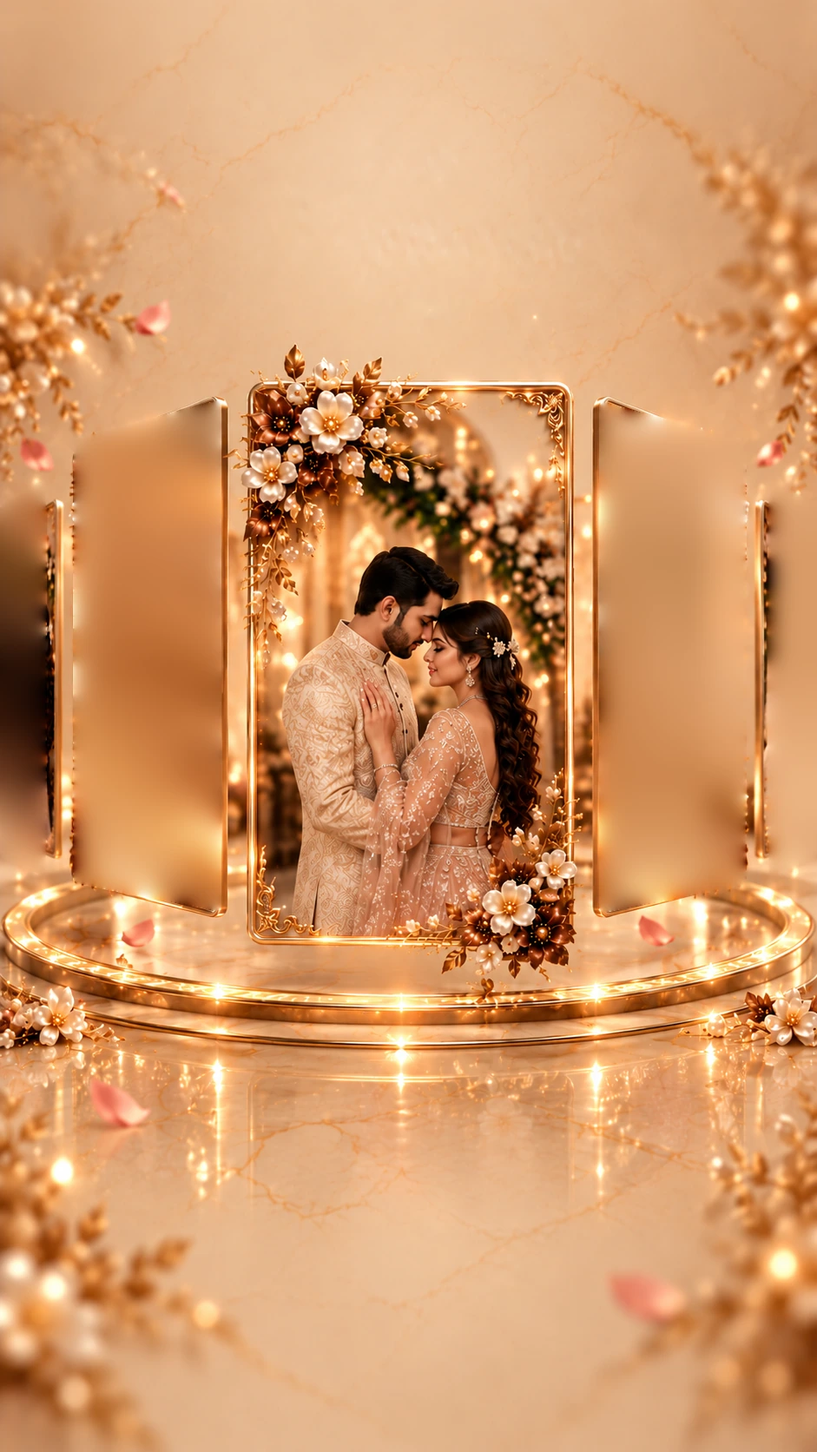
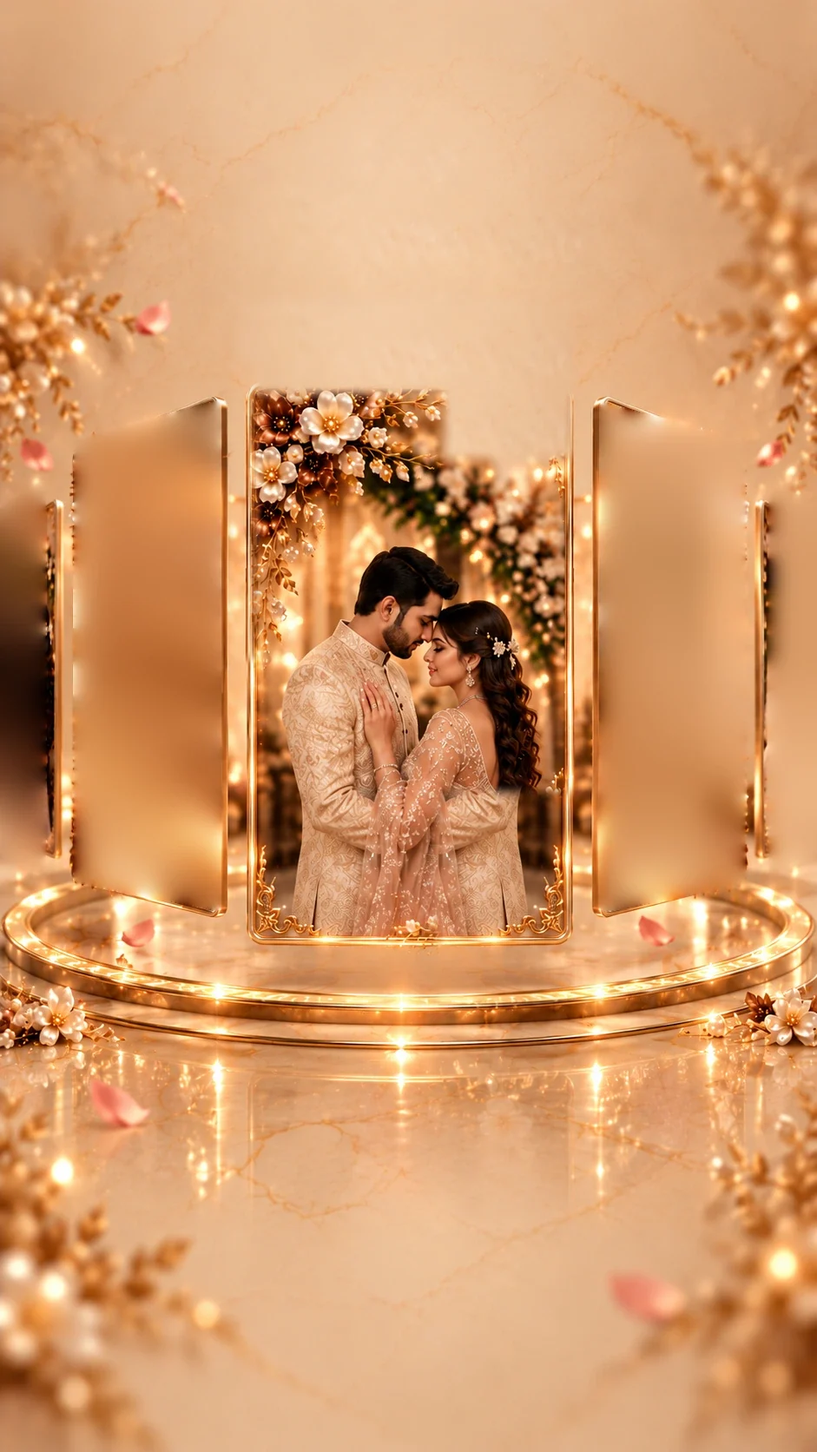
vaishali-arpan-wedding: design refinement round — programme cards, Save the Date on its own plate, clean memories frame, hero rhythm, shorter day pages
- Functions page: the pathway plate becomes a bokeh backdrop; three programme cards (day medallion, title, first hour, venue, "Tap to view" pill) open the day pages
- Save the Date moves to plate 5 (title, names, venue, date beside the card's calendar, time beside its clock, the plate's own buttons); the countdown takes plate 4, cropped above its painted buttons
- Memories: frame rebuilt from its clean quarter (no flowers), plate patched beside the window; plates 4/5 ghost lettering smoothed
- Hero on one vertical rhythm; day pages end with their card and centre in the viewport
- Built by the tool's new `art` mode

Changed region(s): [[0.5239, 0.5287, 0.7396, 0.7153], [0.2774, 0.2177, 0.7088, 0.4665]]

diff --git a/public/vaishali-arpan-wedding/css/client.css b/public/vaishali-arpan-wedding/css/client.css
@@ -1,11 +1,12 @@
 /* Vaishali & Arpan: additions to the demo's stylesheet (css/invite.css, unchanged). Live words in measured
-   boxes (no reference lettering for these lines), the three plaques, the day pages that flow below their
+   boxes (no reference lettering for these lines), the programme cards, the day pages that flow below their
    plate, the countdown tray, the Save the Date page, the Add to Calendar sheet, and the film's seal patch.
    Every word is set in dark browns (the demo's light gold reads poorly on the cream plates). */
 :root {
   --ink: #4a291b;        /* body words: deep chocolate */
   --ink-soft: #593522;   /* small capitals and labels: walnut */
   --ink-deep: #3b2214;   /* names, headings in capitals */
+  --card: #fbf0dc;       /* the solid cream of every card */
   --deva: 'Noto Serif Devanagari', 'Kohinoor Devanagari', 'Mangal', serif;
 }
 body { font-variant-numeric: lining-nums; }
@@ -19,30 +20,46 @@ body { font-variant-numeric: lining-nums; }
 .s.live.bold { font-weight: 700; }
 .s.live.semibold { font-weight: 600; }
 .s.live.italic { font-style: italic; }
-.s.live.deva { font-family: var(--deva); font-weight: 500; line-height: 1.5; }
+.s.live.deva { font-family: var(--deva); font-weight: 500; line-height: 1.45; }
 .s.live.script { line-height: 1.05; }
+.s.live.serif.wrap { line-height: 1.25; }
+.s.live.italic.wrap { line-height: 1.3; }
 .s.live.date3 { color: var(--burgundy); line-height: 1.12; }
 .s.live.date3 b { font-weight: 600; font-size: 1.7em; line-height: 1; }
 .s.live.date3 sup { font-size: .42em; vertical-align: .9em; margin-left: .05em; }
 .hint, .tap-hint { color: var(--ink); font-weight: 600; }
 .tap-hint { opacity: .85; }
 
-/* ── page 3: the plaques carry live words over the pack's plaque ── */
-.plaque { position: relative; }
-.plaque .plaque-art { position: absolute; inset: 0; width: 100%; height: 100%; filter: drop-shadow(0 .7cqw 1.3cqw rgba(84, 44, 16, .48)) saturate(1.12) brightness(.97); }
-.page-3-hint { top: 95.4%; }
-.plaque-label { position: absolute; left: 14%; right: 14%; top: 0; bottom: 0; display: flex; flex-direction: column; align-items: center; justify-content: center; text-align: center; color: var(--ink-deep); line-height: 1.15; }
-.plaque-label small { font-size: 2cqw; letter-spacing: .14em; padding-left: .14em; text-transform: uppercase; font-weight: 700; color: var(--ink-soft); margin-bottom: .4cqw; }
-.plaque-label b { font-size: 3.2cqw; font-weight: 700; letter-spacing: .02em; }
+/* ── page 3: the programme cards, each a button that opens its day ── */
+.fn-wrap { filter: drop-shadow(0 1.6cqw 3.2cqw rgba(84, 44, 16, .26)); }
+.fn { position: relative; display: flex; align-items: center; gap: 3.4cqw; width: 100%; height: 100%; padding: 2.4cqw 3cqw 2.4cqw 2.8cqw; border: 0; border-radius: 3.4cqw; text-align: left; color: var(--ink);
+  background: var(--card) linear-gradient(160deg, #fdf6e8, #f6e5c8); box-shadow: 0 0 0 .45cqw rgba(252, 243, 228, .9), 0 0 0 .7cqw rgba(201, 162, 79, .95); transition: transform .25s ease, filter .25s ease; }
+.fn::before { content: ""; position: absolute; inset: 1.1cqw; border-radius: 2.4cqw; border: 1px solid rgba(201, 162, 79, .55); pointer-events: none; }
+.fn:active { transform: scale(.985); filter: brightness(1.04); }
+.fn:focus-visible { outline: 2px solid var(--gold); outline-offset: 3px; }
+@media (hover: hover) { .fn:hover { transform: translateY(-.4cqw); filter: brightness(1.03); } }
+.fn-day { flex: 0 0 auto; display: flex; flex-direction: column; align-items: center; justify-content: center; width: 15.2cqw; height: 15.2cqw; border-radius: 50%; color: var(--cream);
+  background: radial-gradient(circle at 35% 30%, #8a2634, #5a1420 70%, #4a0f1a); box-shadow: 0 0 0 .5cqw #f3e2c4, 0 0 0 .75cqw var(--gold), 0 1cqw 2.2cqw rgba(84, 44, 16, .3); }
+.fn-day b { font-weight: 600; font-size: 6.2cqw; line-height: 1; font-variant-numeric: lining-nums; }
+.fn-day small { margin-top: .5cqw; font-weight: 700; font-size: 1.9cqw; letter-spacing: .22em; padding-left: .22em; text-transform: uppercase; color: #f0d08a; }
+.fn-body { display: flex; flex-direction: column; align-items: flex-start; min-width: 0; flex: 1 1 auto; }
+.fn-when { font-weight: 700; font-size: 2cqw; letter-spacing: .18em; text-transform: uppercase; color: var(--ink-soft); }
+.fn-title { display: block; margin: .9cqw 0 .8cqw; font-weight: 700; font-size: 3.45cqw; line-height: 1.15; color: var(--ink-deep); }
+.fn-meta { font-weight: 500; font-size: 2.35cqw; line-height: 1.25; color: var(--ink); }
+.fn-tap { display: inline-flex; align-items: center; gap: 1.2cqw; margin-top: 2cqw; padding: 1.25cqw 2.6cqw 1.25cqw 3cqw; border-radius: 99px; background: linear-gradient(180deg, #8a2430, #5e1420); color: var(--cream); font-weight: 700; font-size: 2.05cqw; letter-spacing: .2em; text-transform: uppercase; box-shadow: 0 .8cqw 1.8cqw rgba(90, 20, 30, .3); }
+.fn-tap i { width: 1.5cqw; height: 1.5cqw; border-right: 1.5px solid currentColor; border-top: 1.5px solid currentColor; transform: rotate(45deg); animation: nudge 1.6s ease-in-out infinite; }
+@keyframes nudge { 0%, 100% { transform: translateX(0) rotate(45deg); } 50% { transform: translateX(.6cqw) rotate(45deg); } }
+.fn-n { position: absolute; top: 1.9cqw; right: 2.6cqw; font-family: var(--serif); font-weight: 600; font-size: 2.3cqw; letter-spacing: .16em; color: var(--gold); }
 
-/* ── a day's detail page: plate at the top, words in flow below its arch ── */
-.page.tall { min-height: calc(var(--col) * 1672 / 941); overflow: visible; background: none; }
-/* the plate fades out above its own painted buttons (78 % down), which the card would otherwise half-cover */
-.page.tall > img.plate { height: auto; bottom: auto; -webkit-mask-image: linear-gradient(to bottom, #000 70%, transparent 77%); mask-image: linear-gradient(to bottom, #000 70%, transparent 77%); }
+/* ── a day's detail page: plate at the top, words in flow below its arch; the page ends with its card ── */
+.page.tall { overflow: hidden; background: none; }
+/* the plate fades in from the blurred backdrop at its top edge, and out above its own painted buttons (78 % down),
+   which the card would otherwise half-cover */
+.page.tall > img.plate { height: auto; bottom: auto; -webkit-mask-image: linear-gradient(to bottom, transparent, #000 6%, #000 70%, transparent 77%); mask-image: linear-gradient(to bottom, transparent, #000 6%, #000 70%, transparent 77%); }
 .detail { overflow-x: hidden; }
-.detail .column { justify-content: flex-start; }
-.flow { position: relative; z-index: 5; margin-top: var(--top); padding: 0 8cqw 9cqw; }
-.flow .panel, .dress { padding: 3.2cqw 4cqw 4cqw; border-radius: 3cqw; background: #fbf0dc linear-gradient(180deg, #fdf5e6, #f7e8cc); border: 1px solid rgba(201, 162, 79, .8); box-shadow: 0 0 0 .8cqw rgba(252, 242, 226, .55), 0 1.4cqw 3.6cqw rgba(84, 44, 16, .24); }
+.detail .column { justify-content: center; }
+.flow { position: relative; z-index: 5; margin-top: var(--top); padding: 0 8cqw 5cqw; }
+.flow .panel, .dress { padding: 3.2cqw 4cqw 4cqw; border-radius: 3cqw; background: var(--card) linear-gradient(180deg, #fdf5e6, #f7e8cc); border: 1px solid rgba(201, 162, 79, .8); box-shadow: 0 0 0 .8cqw rgba(252, 242, 226, .55), 0 1.4cqw 3.6cqw rgba(84, 44, 16, .24); }
 .dress { margin: 0 0 3.2cqw; padding: 2.6cqw 3cqw 3cqw; text-align: center; }
 .dress-title { margin: 0; font-weight: 700; font-size: 3.6cqw; color: var(--ink-deep); }
 .swatches { list-style: none; display: flex; justify-content: center; gap: 2.6cqw; margin: 2.4cqw 0 0; padding: 0; }
@@ -51,7 +68,7 @@ body { font-variant-numeric: lining-nums; }
 .timeline { list-style: none; margin: 0; padding: 0; position: relative; }
 .timeline::before { content: ""; position: absolute; left: 1.6cqw; top: 1.6cqw; bottom: 1.6cqw; width: 1px; background: linear-gradient(var(--gold), rgba(201, 162, 79, .25)); }
 .timeline li { position: relative; padding: 1.3cqw 0 1.3cqw 6cqw; }
-.timeline li::before { content: ""; position: absolute; left: 1.6cqw; top: 2.6cqw; width: 2cqw; height: 2cqw; border-radius: 50%; transform: translateX(-50%); background: var(--gold); box-shadow: 0 0 0 2px #fbf0dc; }
+.timeline li::before { content: ""; position: absolute; left: 1.6cqw; top: 2.6cqw; width: 2cqw; height: 2cqw; border-radius: 50%; transform: translateX(-50%); background: var(--gold); box-shadow: 0 0 0 2px var(--card); }
 .timeline time { display: block; font-weight: 700; font-size: 2.5cqw; letter-spacing: .14em; text-transform: uppercase; color: var(--ink-soft); }
 .timeline span { display: block; font-weight: 600; font-size: 3.5cqw; line-height: 1.25; color: var(--ink-deep); }
 .timeline .no-time span { font-style: italic; color: var(--burgundy); }
@@ -60,18 +77,18 @@ body { font-variant-numeric: lining-nums; }
 .venue-name { margin: 0; font-weight: 700; font-size: 3.6cqw; letter-spacing: .08em; text-transform: uppercase; line-height: 1.25; color: var(--ink-deep); }
 .venue-addr { margin: 1cqw 0 0; font-size: 3.1cqw; line-height: 1.4; color: var(--ink); }
 .actions { display: flex; justify-content: center; gap: 1.5cqw; margin-top: 4cqw; }
-.actions .img-wrap { width: 34cqw; height: 10.4cqw; }
+.actions .img-wrap { width: 34cqw; height: 10.4cqw; filter: drop-shadow(0 .8cqw 1.8cqw rgba(84, 44, 16, .25)); }
 .page.tall .reveal.flow { transform: translateY(1.4cqw); }
 .page.tall.ready .reveal.flow.in { transform: none; }
 
-/* ── the countdown: four tiles in a cream tray under the plate's card ── */
-.cd-tray { display: flex; flex-direction: column; justify-content: center; padding: 1.6cqw; border-radius: 3cqw; background: #fbf0dc linear-gradient(180deg, #fdf5e6, #f5e4c4); border: 1px solid rgba(201, 162, 79, .85); box-shadow: 0 0 0 .6cqw rgba(252, 242, 226, .5), 0 1.4cqw 3cqw rgba(84, 44, 16, .22); }
+/* ── the countdown: four tiles in a cream tray over the daybed ── */
+.cd-tray { display: flex; flex-direction: column; justify-content: center; padding: 1.6cqw; border-radius: 3cqw; background: var(--card) linear-gradient(180deg, #fdf5e6, #f5e4c4); border: 1px solid rgba(201, 162, 79, .85); box-shadow: 0 0 0 .6cqw rgba(252, 242, 226, .5), 0 1.4cqw 3cqw rgba(84, 44, 16, .22); }
 .cd { display: grid; grid-template-columns: repeat(4, 1fr); gap: 1.6cqw; height: 100%; }
 .cd div { display: flex; flex-direction: column; align-items: center; justify-content: center; border-radius: 2.2cqw; background: linear-gradient(180deg, #4a2a17, #2f1b0f); border: 1px solid rgba(201, 162, 79, .75); box-shadow: 0 1cqw 2.4cqw rgba(59, 34, 20, .28), inset 0 0 0 2px rgba(201, 162, 79, .14); }
-.cd b { font-weight: 600; font-size: 6.2cqw; line-height: 1; color: #f0d08a; font-variant-numeric: tabular-nums lining-nums; }
-.cd span { margin-top: 1cqw; font-weight: 600; font-size: 1.9cqw; letter-spacing: .2em; padding-left: .2em; text-transform: uppercase; color: var(--cream); }
+.cd b { font-weight: 600; font-size: 5.6cqw; line-height: 1; color: #f0d08a; font-variant-numeric: tabular-nums lining-nums; }
+.cd span { margin-top: 1cqw; font-weight: 600; font-size: 1.8cqw; letter-spacing: .2em; padding-left: .2em; text-transform: uppercase; color: var(--cream); }
 .cd[hidden] { display: none; }
-.cd-done { margin: 0; text-align: center; font-family: var(--script); font-size: 5.6cqw; line-height: 1.1; color: var(--burgundy); }
+.cd-done { margin: 0; text-align: center; font-family: var(--script); font-size: 5.2cqw; line-height: 1.1; color: var(--burgundy); }
 .cd-done[hidden] { display: none; }
 
 /* ── Add to Calendar sheet ── */
@@ -94,3 +111,5 @@ body { font-variant-numeric: lining-nums; }
 .film .seal, .film .burst { position: absolute; pointer-events: none; will-change: opacity; }
 .film .seal { opacity: 0; }
 .film .burst { opacity: 0; border-radius: 50%; background: radial-gradient(circle closest-side, #fff8e6 0%, #ffecc4 34%, rgba(255, 232, 190, .98) 56%, rgba(255, 220, 160, .6) 76%, rgba(255, 210, 140, 0) 100%); }
+
+@media (prefers-reduced-motion: reduce) { .fn-tap i { animation: none; } }

diff --git a/public/vaishali-arpan-wedding/js/app.js b/public/vaishali-arpan-wedding/js/app.js
@@ -1,5 +1,5 @@
 /* Vaishali & Arpan: the invitation assembled from the demo's components.
-   Scroll order: 1 the invitation, 2 the date, 3 the three days, the countdown, Save the Date,
+   Scroll order: 1 the invitation, 2 the date, 3 the programme (three days), the countdown, Save the Date,
    our memories, the little stars' message, the closing. The three days open as detail views from page 3. */
 import { config as C } from '../config.js';
 import './layout.js';
@@ -25,17 +25,17 @@ const page1 = Page(1, [
   spr('p1-flowers-a', { still: true, motion: 'sway soft', origin: '0% 45%', z: 1 }),
   spr('p1-flowers-b', { still: true, motion: 'sway soft alt', origin: '0% 50%', z: 1 }),
   butterfly('p1-butterfly', { z: 2 }),
-  live('h-invocation', H.invocation, { size: 2.45, cls: 'serif caps tight soft', delay: 0.1, wrap: false }),
-  live('h-hindi', H.hindi, { size: 2.8, cls: 'deva burgundy', delay: 0.25, lang: 'hi' }),
+  live('h-invocation', H.invocation, { size: 2.3, cls: 'serif caps tight soft', delay: 0.1, wrap: false }),
+  live('h-hindi', H.hindi, { size: 2.65, cls: 'deva burgundy', delay: 0.25, lang: 'hi' }),
   sprAt('h-rule1', 'p1-rule1', { delay: 0.4 }),
-  live('h-blessings', H.blessings, { size: 2.6, cls: 'serif caps soft', delay: 0.5, wrap: false }),
-  live('h-parents', H.parents, { size: 3.3, cls: 'serif bold deep', delay: 0.6 }),
-  live('h-request', H.request, { size: 2.7, cls: 'serif italic', delay: 0.7 }),
-  live('h-bride', C.couple.bride, { size: 11.5, cls: 'script burgundy', delay: 0.6, slow: true, wrap: false }),
-  live('h-bride-of', H.brideOf, { size: 2.6, cls: 'serif semibold', delay: 0.9 }),
-  live('h-with', H.with, { size: 2.7, cls: 'serif caps soft', delay: 1, wrap: false }),
-  live('h-groom', C.couple.groom, { size: 11.5, cls: 'script burgundy', delay: 0.9, slow: true, wrap: false }),
-  live('h-groom-of', H.groomOf, { size: 2.6, cls: 'serif semibold', delay: 1.2 }),
+  live('h-blessings', H.blessings, { size: 2.3, cls: 'serif caps soft', delay: 0.5, wrap: false }),
+  live('h-parents', H.parents, { size: 3.15, cls: 'serif bold deep', delay: 0.6 }),
+  live('h-request', H.request, { size: 2.5, cls: 'serif italic', delay: 0.7 }),
+  live('h-bride', C.couple.bride, { size: 10.8, cls: 'script burgundy', delay: 0.6, slow: true, wrap: false }),
+  live('h-bride-of', H.brideOf, { size: 2.5, cls: 'serif semibold', delay: 0.9 }),
+  live('h-with', H.with, { size: 2.4, cls: 'serif caps soft', delay: 1, wrap: false }),
+  live('h-groom', C.couple.groom, { size: 10.8, cls: 'script burgundy', delay: 0.9, slow: true, wrap: false }),
+  live('h-groom-of', H.groomOf, { size: 2.5, cls: 'serif semibold', delay: 1.2 }),
   h('div', { class: 'hint', 'aria-hidden': 'true' }, h('span', {}, 'Scroll'), h('i')),
 ], { id: 'page-1' });
 
@@ -54,7 +54,7 @@ const page2 = Page(2, [
 ], { id: 'page-2' });
 
 /* ── the three days: detail views, all on plate 4 (title over the arch, the date in its gold frame, the
-      programme in one solid card below, the demo's two buttons under it) ── */
+      programme in one solid card below, the demo's two buttons under it; the page ends with its card) ── */
 const schedule = (day) => h('ol', { class: 'timeline' }, ...day.schedule.map(([t, what, note]) => h('li', { class: t ? '' : 'no-time' },
   t ? h('time', {}, t) : null, h('span', {}, what, note ? h('em', {}, note) : null))));
 const venue = (day) => h('div', { class: 'venue' }, h('p', { class: 'venue-name' }, day.venue), h('p', { class: 'venue-addr' }, ...day.address.flatMap((l, i) => (i ? [h('br'), l] : [l]))));
@@ -73,49 +73,48 @@ const dayPage = (day) => () => Page(4, [
 ], { id: `detail-${day.key}`, tall: true, flow: h('div', { class: 'flow reveal', style: { '--d': '0.6s', '--top': '91.8cqw' } },
   day.dressCode ? dressCode(day) : null, h('div', { class: 'panel' }, schedule(day), venue(day)), actions(day)) });
 
-/* ── 3 · our functions: a plaque per day, its pin on the plaque ── */
-const plaque = (id, day, delay) => control(id,
-  h('button', { class: 'plaque', type: 'button', 'aria-label': `${day.title}, ${day.weekday} ${day.date}: view details`, onclick: () => openDetail(day.title, 4, dayPage(day)) },
-    pic('p3-plaque', ''), h('span', { class: 'plaque-label' }, h('small', {}, `${day.weekday} · ${day.date.replace(' 2026', '')}`), h('b', {}, day.title))), { delay, cls: 'plaque-wrap' });
-
+/* ── 3 · our functions: the programme as three cards, each a button that opens its day. The day's number sits
+      in a burgundy medallion, the title and the first hour beside it, and a "Tap to view" pill says what a
+      tap does, so nobody wonders whether the cards are live. ── */
 const [day1, day2, day3] = C.days;
+const monthShort = (date) => date.split(' ')[1].slice(0, 3);
+const card = (id, day, n, delay) => control(id,
+  h('button', { class: 'fn', type: 'button', 'aria-label': `${day.title}, ${day.weekday} ${day.date}: view the programme`, onclick: () => openDetail(day.title, 4, dayPage(day)) },
+    h('span', { class: 'fn-day', 'aria-hidden': 'true' }, h('b', {}, day.date.split(' ')[0]), h('small', {}, monthShort(day.date))),
+    h('span', { class: 'fn-body' },
+      h('small', { class: 'fn-when' }, `${day.weekday} · ${day.date.replace(' 2026', '')}`),
+      h('b', { class: 'fn-title' }, day.title),
+      h('span', { class: 'fn-meta' }, `${day.schedule[0][0]} · ${day.venue}`),
+      h('span', { class: 'fn-tap' }, 'Tap to view', h('i', { 'aria-hidden': 'true' }))),
+    h('span', { class: 'fn-n', 'aria-hidden': 'true' }, n)),
+  { delay, cls: 'fn-wrap', z: 5 });
+
 const page3 = Page(3, [
   spr('p3-flowers-a', { motion: 'sway', origin: '0% 30%', delay: 0.1, z: 2 }),
   spr('p3-flowers-b', { motion: 'sway alt', origin: '0% 50%', delay: 0.2, z: 2 }),
   spr('p3-flowers-c', { motion: 'sway', origin: '0% 50%', delay: 0.3, z: 2 }),
   spr('p3-flowers-d', { motion: 'sway alt', origin: '100% 50%', delay: 0.2, z: 2 }),
   spr('p3-flowers-e', { motion: 'sway', origin: '100% 50%', delay: 0.3, z: 2 }),
-  plaque('p3-plaque-a', day1, 0.45),
-  sprAt('p3-pin-a', 'p3-pin1', { delay: 0.55, z: 4, cls: 'bob' }),
-  plaque('p3-plaque-b', day2, 0.7),
-  sprAt('p3-pin-b', 'p3-pin1', { delay: 0.8, z: 4, cls: 'bob' }),
-  plaque('p3-plaque-c', day3, 0.9),
-  sprAt('p3-pin-c', 'p3-pin1', { delay: 1, z: 4, cls: 'bob' }),
-  h('div', { class: 'tap-hint page-3-hint', 'aria-hidden': 'true' }, 'Tap to view'),
+  card('f-card-a', day1, 'I', 0.4),
+  card('f-card-b', day2, 'II', 0.6),
+  card('f-card-c', day3, 'III', 0.8),
 ], { id: 'page-3' });
-page3.querySelectorAll('.plaque-wrap .plaque img').forEach((i) => i.classList.add('plaque-art'));
 
-/* ── the countdown (plate 5: the plate's card carries the date and time, the tiles sit in a tray below) ── */
+/* ── the countdown (plate 4 down to its painted buttons: the day in the gold frame, the tiles in a tray over
+      the daybed) ── */
 const CD = C.countdown, W = C.wedding;
 const tiles = h('div', { class: 'cd', id: 'countdown', role: 'timer', 'aria-live': 'off' },
   ...CD.units.map((u) => h('div', {}, h('b', { 'data-u': u[0].toLowerCase() }, '--'), h('span', {}, u))));
 const done = h('p', { class: 'cd-done script', hidden: true }, CD.done);
 const tray = h('div', { class: 's cd-tray reveal', style: { ...box('c-tray'), zIndex: 5, '--d': '0.8s' } }, tiles, done);
-const pageCountdown = Page(5, [
-  spr('p5-lantern-a', { still: true, motion: 'sway hang', origin: '50% 0%', z: 2 }),
-  spr('p5-lantern-b', { still: true, motion: 'sway hang alt', origin: '50% 0%', z: 2 }),
-  spr('p5-lantern-c', { still: true, motion: 'sway hang', origin: '50% 0%', z: 2 }),
-  butterfly('p5-butterfly-a', { z: 3 }),
-  butterfly('p5-butterfly-b', { z: 3 }),
-  butterfly('p5-butterfly-c', { z: 3 }),
-  live('c-title', CD.title, { size: 7.6, cls: 'script burgundy', delay: 0.15 }),
-  spr('p5-heart', { delay: 0.35 }),
-  live('c-lines', CD.lines, { size: 3.2, cls: 'serif italic', delay: 0.45 }),
-  live('c-date', W.dateLine, { size: 2.35, cls: 'serif caps deep', delay: 0.65, wrap: false }),
-  live('c-weekday', W.weekday, { size: 2.2, cls: 'serif caps soft', delay: 0.7, wrap: false }),
-  live('c-time', W.time, { size: 3, cls: 'serif bold deep', delay: 0.75, wrap: false }),
+const pageCountdown = Page(4, [
+  live('c-title', CD.title, { size: 7, cls: 'script burgundy', delay: 0.15 }),
+  sprAt('c-rule', 'p4-rule', { delay: 0.3 }),
+  live('c-lines', CD.lines, { size: 2.7, cls: 'serif italic', delay: 0.45 }),
+  live('c-date', W.dateLine, { size: 2.4, cls: 'serif caps deep', delay: 0.6, wrap: false }),
+  live('c-weekday', `${W.weekday} · ${W.time}`, { size: 2.1, cls: 'serif caps tight soft', delay: 0.65, wrap: false }),
   tray,
-], { id: 'page-countdown' });
+], { id: 'page-countdown', crop: { bottom: 0.22 } });
 
 /* the countdown: worked out every second from the real moment, never below zero */
 (() => {
@@ -134,19 +133,26 @@ const pageCountdown = Page(5, [
   document.addEventListener('visibilitychange', () => { if (!document.hidden) tick(); });
 })();
 
-/* ── Save the Date (plate 4, the demo's own events composition: the day in the gold frame, the time, the
-      venue, and its two buttons: Add to Calendar and the wedding venue on Google Maps) ── */
+/* ── Save the Date (plate 5, the plate painted for it: the title in the arch, the names and the venue, the
+      day beside the card's calendar, the time beside its clock, and its two buttons: the calendar sheet and
+      the wedding venue on Google Maps) ── */
 const SD = C.saveTheDate;
-const pageSave = Page(4, [
+const pageSave = Page(5, [
+  spr('p5-lantern-a', { still: true, motion: 'sway hang', origin: '50% 0%', z: 2 }),
+  spr('p5-lantern-b', { still: true, motion: 'sway hang alt', origin: '50% 0%', z: 2 }),
+  spr('p5-lantern-c', { still: true, motion: 'sway hang', origin: '50% 0%', z: 2 }),
+  butterfly('p5-butterfly-a', { z: 3 }),
+  butterfly('p5-butterfly-b', { z: 3 }),
+  butterfly('p5-butterfly-c', { z: 3 }),
   live('sd-title', SD.title, { size: 8.6, cls: 'script burgundy', delay: 0.15, wrap: false }),
   sprAt('sd-rule', 'p4-rule', { delay: 0.3 }),
-  live('sd-names', `${C.couple.bride} & ${C.couple.groom}`, { size: 3, cls: 'serif caps soft', delay: 0.4, wrap: false }),
-  live('sd-date', W.dateLine, { size: 2.4, cls: 'serif caps deep', delay: 0.5, wrap: false }),
-  live('sd-weekday', W.weekday, { size: 2.2, cls: 'serif caps soft', delay: 0.55, wrap: false }),
-  live('sd-time', W.time, { size: 3, cls: 'serif bold deep', delay: 0.6, wrap: false }),
-  live('sd-venue', day3.venueLines || day3.venue, { size: 2.2, cls: 'serif caps tight deep', delay: 0.65 }),
-  control('p4-save', saveTheDate(day3, pic('p4-save', SD.button), sheet), { delay: 0.85 }),
-  control('p4-maps', openMaps(day3, pic('p4-maps', 'Open in Google Maps')), { delay: 0.95 }),
+  live('sd-names', `${C.couple.bride} & ${C.couple.groom}`, { size: 3.2, cls: 'serif caps deep', delay: 0.4, wrap: false }),
+  live('sd-venue', day3.venue, { size: 2.7, cls: 'serif bold', delay: 0.5, wrap: false }),
+  live('sd-addr', day3.address[0].replace(/ – .*$/, ''), { size: 2.4, cls: 'serif soft', delay: 0.55, wrap: false }),
+  live('sd-date', W.dateLine, { size: 2.3, cls: 'serif caps tight deep', delay: 0.65, wrap: false }),
+  live('sd-time', `${W.weekday} · ${W.time}`, { size: 2.2, cls: 'serif caps tight deep', delay: 0.7, wrap: false }),
+  control('p5-save', saveTheDate(day3, pic('p5-save', SD.button), sheet), { delay: 0.9 }),
+  control('p5-maps', openMaps(day3, pic('p5-maps', 'View on Google Maps')), { delay: 1 }),
 ], { id: 'page-save' });
 
 /* ── our memories (the plate's empty floor below the stage is cut: the next page follows the hint) ── */

diff --git a/public/vaishali-arpan-wedding/js/layout.js b/public/vaishali-arpan-wedding/js/layout.js
@@ -4,30 +4,29 @@
 import { art } from './art.js';
 
 Object.assign(art, {
-  /* page 1: the invitation, bride first, centred on the arch (its axis is at 52.4 %); everything ends above
-     the painted couple, who stand at the lower right from ~59 % */
-  'h-invocation': { x: 32.4, y: 15.0, w: 40, h: 2.2 }, /* below the arch's cusps, which reach down to ~14 % at the sides */
-  'h-hindi': { x: 29.4, y: 17.3, w: 46, h: 4.8 },
-  'h-rule1': { x: 39.65, y: 22.3, w: 25.505, h: 2.033 },
-  'h-blessings': { x: 32.4, y: 24.4, w: 40, h: 2.0 },
-  'h-parents': { x: 29.4, y: 26.5, w: 46, h: 5.0 },
-  'h-request': { x: 28.4, y: 31.6, w: 48, h: 4.2 },
-  'h-bride': { x: 27.4, y: 35.8, w: 50, h: 6.4 },
-  'h-bride-of': { x: 29.4, y: 42.3, w: 46, h: 4.0 },
-  'h-with': { x: 37.4, y: 46.4, w: 30, h: 2.0 },
-  'h-groom': { x: 27.4, y: 48.4, w: 50, h: 6.4 },
-  'h-groom-of': { x: 29.4, y: 54.9, w: 46, h: 4.0 },
+  /* page 1: the invitation, bride first, centred on the arch (its axis is at 52.4 %). One vertical rhythm:
+     every box is as tall as its words, with a steady gap of ~0.8 % between groups and a smaller one between a
+     name and its own line. The block starts below the arch's cusps (~13.2 % at x 39 / 63 %) and ends above
+     the painted couple, whose heads begin at ~57 % on the right (x > 72 %) */
+  'h-invocation': { x: 32.4, y: 14.0, w: 40, h: 1.3 },
+  'h-hindi': { x: 29.4, y: 16.1, w: 46, h: 4.33 },
+  'h-rule1': { x: 40.4, y: 21.3, w: 24, h: 1.913 },
+  'h-blessings': { x: 32.4, y: 24.0, w: 40, h: 1.3 },
+  'h-parents': { x: 29.4, y: 25.9, w: 46, h: 4.44 },
+  'h-request': { x: 28.4, y: 31.1, w: 48, h: 3.8 },
+  'h-bride': { x: 27.4, y: 35.7, w: 50, h: 6.38 },
+  'h-bride-of': { x: 29.4, y: 42.3, w: 46, h: 3.66 },
+  'h-with': { x: 37.4, y: 46.9, w: 30, h: 1.35 },
+  'h-groom': { x: 27.4, y: 48.8, w: 50, h: 6.38 },
+  'h-groom-of': { x: 29.4, y: 55.4, w: 46, h: 3.66 },
 
   /* page 2: the parchment's date, three lines */
   'p2-date3': { x: 35, y: 57.8, w: 30, h: 12.4 },
 
-  /* page 3: three plaques (the pack's plaque is 3:1), centred, each with its pin on its top-right corner */
-  'p3-plaque-a': { x: 24, y: 44, w: 52, h: 9.75 },
-  'p3-plaque-b': { x: 24, y: 73, w: 52, h: 9.75 },
-  'p3-plaque-c': { x: 24, y: 85.2, w: 52, h: 9.75 },
-  'p3-pin-a': { x: 70, y: 41.6, w: 7.006, h: 5.153 },
-  'p3-pin-b': { x: 70, y: 70.6, w: 7.006, h: 5.153 },
-  'p3-pin-c': { x: 70, y: 82.8, w: 7.006, h: 5.153 },
+  /* page 3: the programme, three cards under the plate's "Our Functions" lettering, over the venue's bokeh */
+  'f-card-a': { x: 12, y: 33.6, w: 76, h: 16.8 },
+  'f-card-b': { x: 12, y: 53.4, w: 76, h: 16.8 },
+  'f-card-c': { x: 12, y: 73.2, w: 76, h: 16.8 },
 
   /* the three day pages on plate 4: title over the arch, date in the plate's own gold frame (44.6–50 %) */
   'd4-title': { x: 17, y: 28.4, w: 66, h: 9.2 },
@@ -35,23 +34,24 @@ Object.assign(art, {
   'd4-date': { x: 33, y: 45, w: 34, h: 2.6 },
   'd4-weekday': { x: 34.5, y: 47.5, w: 31, h: 2.1 },
 
-  /* Save the Date on plate 4: the demo's own composition (date in the frame, time, venue, the two buttons) */
-  'sd-title': { x: 15, y: 27.2, w: 70, h: 9.6 },
-  'sd-rule': { x: 40.914, y: 37.4, w: 18.597, h: 1.794 },
-  'sd-names': { x: 25, y: 39.6, w: 50, h: 2.6 },
-  'sd-date': { x: 33, y: 45, w: 34, h: 2.6 },
-  'sd-weekday': { x: 34.5, y: 47.5, w: 31, h: 2.1 },
-  'sd-time': { x: 33, y: 54.1, w: 34, h: 2.4 },
-  'sd-venue': { x: 32, y: 56.5, w: 36, h: 4.6 }, /* two lines: the clear cream between the flower beds is only 33–67 % wide here */
+  /* the countdown on plate 4 (shown down to the top of its painted buttons): the title in the arch under the
+     lantern, the day in the gold frame, the four tiles in a tray over the daybed */
+  'c-title': { x: 14, y: 28.6, w: 72, h: 8.6 },
+  'c-rule': { x: 40.914, y: 37.8, w: 18.597, h: 1.794 },
+  'c-lines': { x: 22, y: 40.2, w: 56, h: 3.9 },
+  'c-date': { x: 33, y: 45, w: 34, h: 2.6 },
+  'c-weekday': { x: 33, y: 47.5, w: 34, h: 2.1 },
+  'c-tray': { x: 18, y: 60.6, w: 64, h: 11.2 },
 
-  /* the countdown on plate 5: the plate's own card (42–52 %) holds the date and time; the tiles sit in a
-     tray right under it, over the plate's painted buttons */
-  'c-title': { x: 12, y: 17.6, w: 76, h: 12.2 },
-  'c-lines': { x: 20, y: 32.2, w: 60, h: 5 },
-  'c-date': { x: 41, y: 43.2, w: 30, h: 2.6 },
-  'c-weekday': { x: 42.5, y: 45.8, w: 27, h: 2.1 },
-  'c-time': { x: 42.5, y: 48.9, w: 27, h: 2.3 },
-  'c-tray': { x: 11, y: 53.2, w: 78, h: 10.6 },
+  /* Save the Date on plate 5, the plate made for it: the title in the arch, the names and the venue under it,
+     the day beside the card's calendar icon, the time beside its clock, and the plate's own two buttons */
+  'sd-title': { x: 15, y: 13.8, w: 70, h: 5.6 },
+  'sd-rule': { x: 40.914, y: 20.4, w: 18.597, h: 1.794 },
+  'sd-names': { x: 20, y: 23.2, w: 60, h: 2.0 },
+  'sd-venue': { x: 20, y: 26.3, w: 60, h: 1.9 },
+  'sd-addr': { x: 20, y: 28.5, w: 60, h: 1.7 },
+  'sd-date': { x: 43, y: 43.0, w: 28, h: 2.3 },
+  'sd-time': { x: 46.5, y: 48.1, w: 24, h: 2.2 },
 
   /* little stars on plate 7, inside the frame's clear middle (x ≈ 22–78 %) */
   's-rule1': { x: 32.412, y: 27.5, w: 35.6, h: 5.144 },

diff --git a/public/vaishali-arpan-wedding/config.js b/public/vaishali-arpan-wedding/config.js
@@ -55,7 +55,7 @@ export const config = {
   ],
 
   /* the countdown page */
-  countdown: { title: ['The Countdown', 'to Forever'], lines: 'The wait is almost over. A beautiful new beginning awaits!', done: 'The day is here. A beautiful new beginning begins!', units: ['Days', 'Hours', 'Minutes', 'Seconds'] },
+  countdown: { title: ['The Countdown', 'to Forever'], lines: ['The wait is almost over.', 'A beautiful new beginning awaits!'], done: 'The day is here. A beautiful new beginning begins!', units: ['Days', 'Hours', 'Minutes', 'Seconds'] },
 
   /* the Save the Date page: the wedding day with Add to Calendar and the venue map */
   saveTheDate: { title: 'Save the Date', button: 'Add to Calendar' },
@@ -71,7 +71,7 @@ export const config = {
     ],
   },
 
-  stars: { title: 'A Little Message from Our Little Stars', big: 'My Bua is getting married!', line: 'Please join us to celebrate this beautiful new beginning!', love: 'With love,', names: 'Mishika, Navya & Himanshi' },
+  stars: { title: 'A Little Message from Our Little Stars', big: 'My Bua is getting married!', line: ['Please join us to celebrate', 'this beautiful new beginning!'], love: 'With love,', names: 'Mishika, Navya & Himanshi' },
 
   closing: { title: ['Your Presence Is', 'Our Greatest Gift'], lines: 'We look forward to celebrating these beautiful moments with you and your family.', hashtag: '#theARVAStory' },
 
